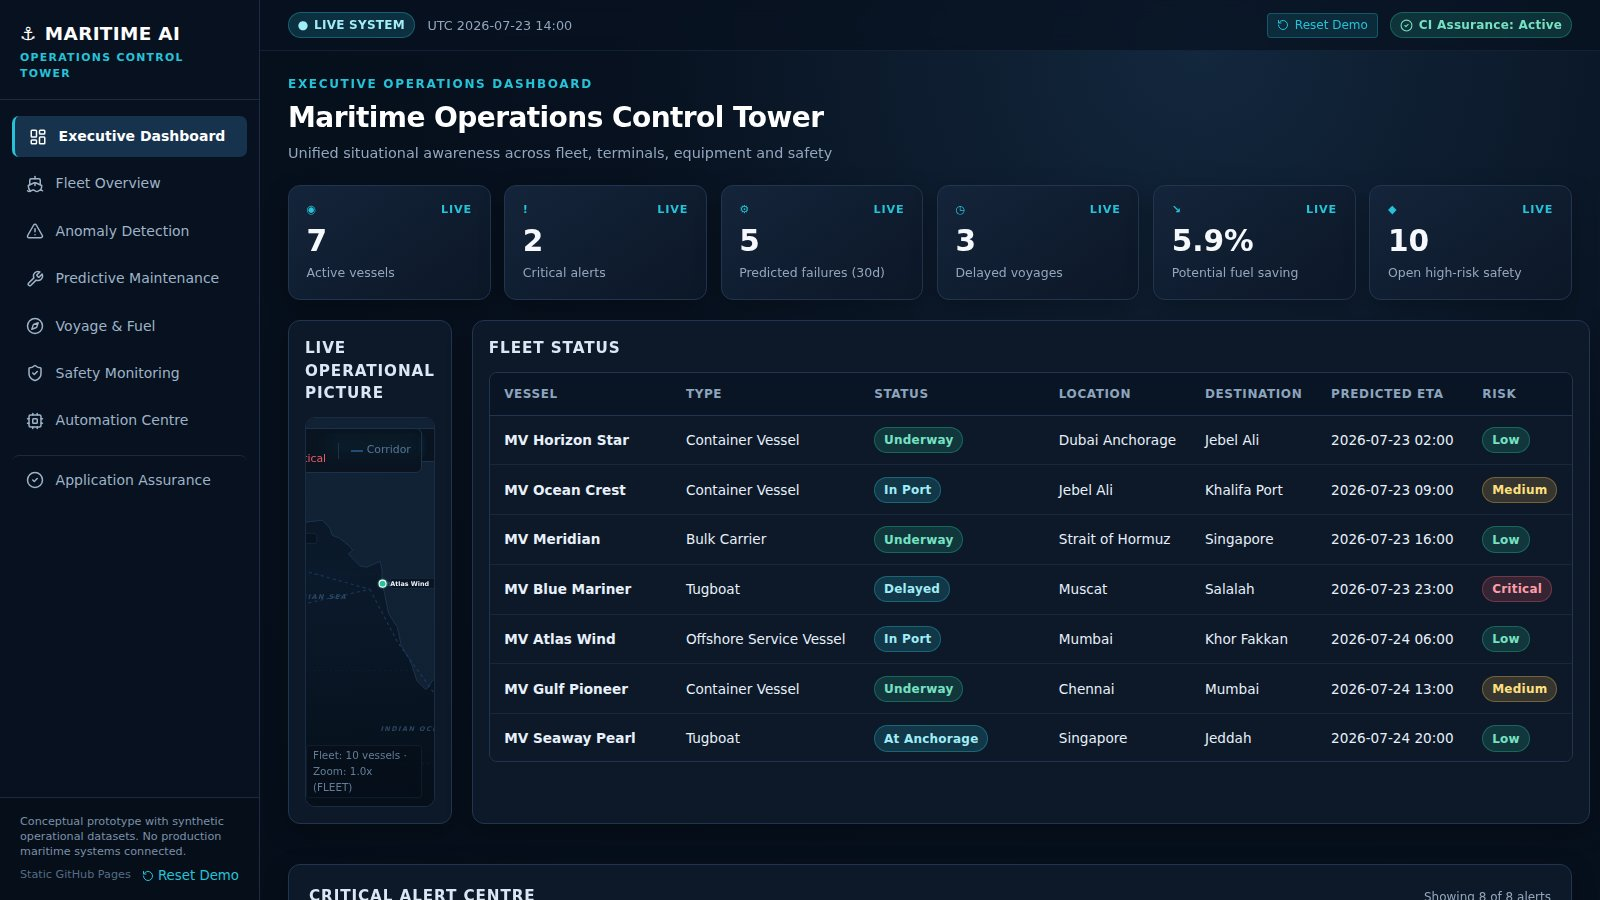
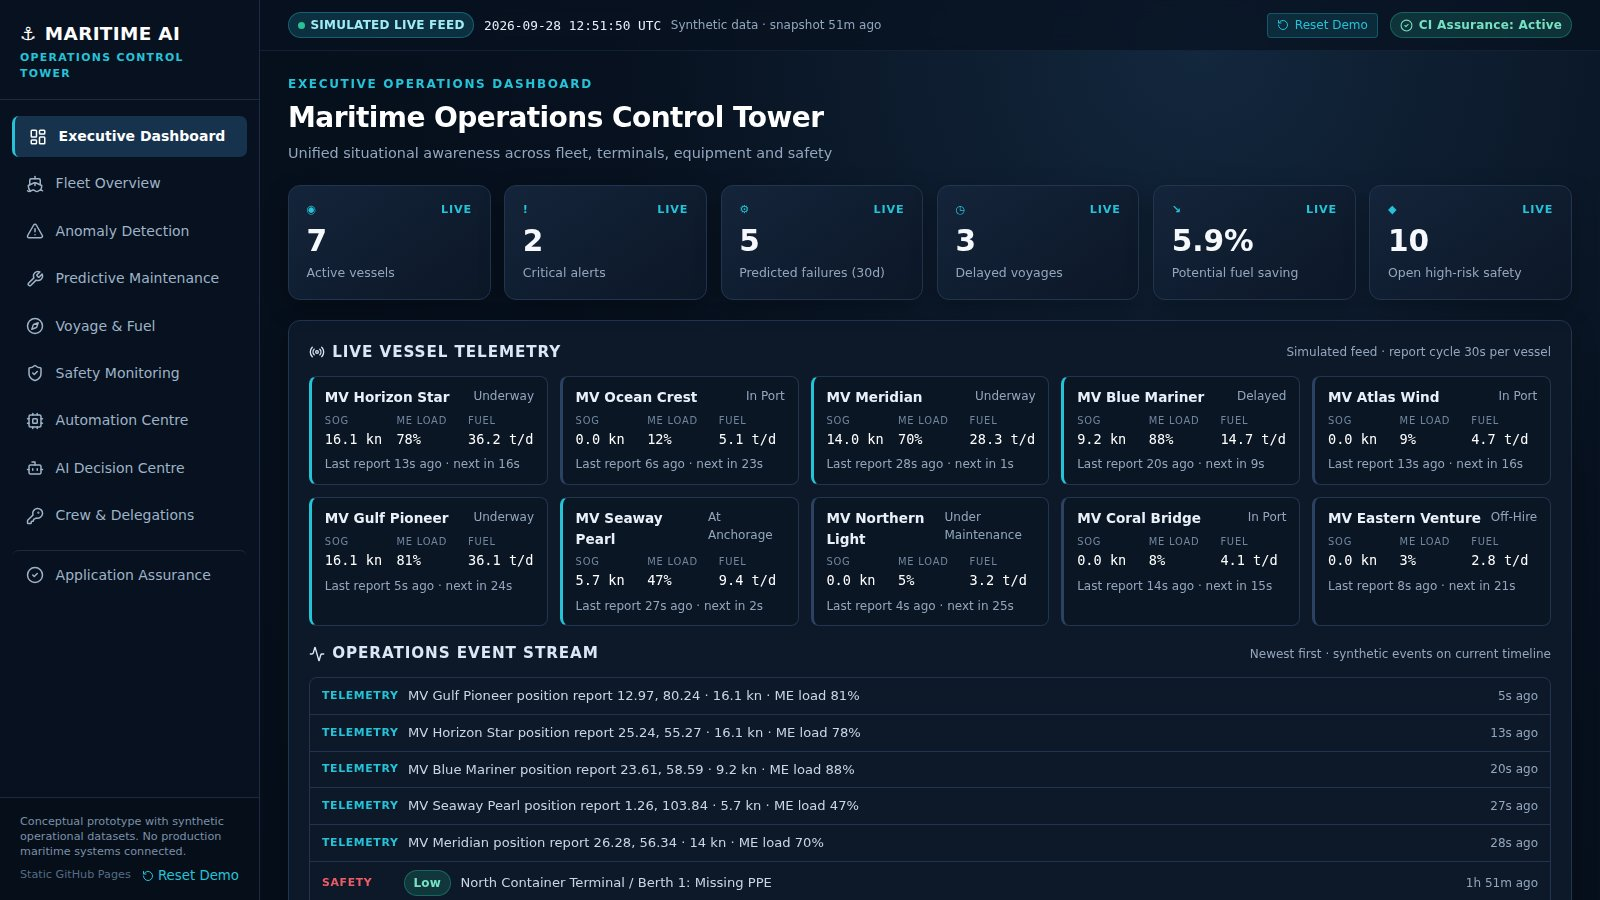
Refresh Maritime AI Control Tower snapshot and description to the current app
The app's main branch gained live telemetry, an AI Decision Centre and crew
and delegation management today; retake the dashboard snapshot from the
current main (static mode, as deployed) and update the card and CV text.

Claude-Session: https://claude.ai/code/session_011AN1edZykt6mXFmske7mgj

diff --git a/index.html b/index.html
@@ -845,7 +845,7 @@
           <div class="flex flex-1 flex-col p-6">
             <p class="text-[10px] font-bold uppercase tracking-[0.14em] text-slate-500">Maritime · AI · Operations</p>
             <h3 class="mt-2 text-base font-bold tracking-tight text-slate-900 dark:text-white">Maritime AI Control Tower</h3>
-            <p class="mt-2 flex-1 text-[14px] leading-relaxed">AI-assisted maritime operations concept covering fleet overview, anomaly detection, predictive maintenance, voyage and fuel optimisation, safety monitoring and human-in-the-loop automation with approval gates. Built with React and TypeScript on synthetic data, with automated QA and security checks.</p>
+            <p class="mt-2 flex-1 text-[14px] leading-relaxed">AI-assisted maritime operations concept with a simulated live vessel telemetry feed, anomaly detection, predictive maintenance, voyage and fuel optimisation, safety monitoring, an AI Decision Centre, crew and delegation management, and human-in-the-loop automation with approval gates. Built with React and TypeScript on synthetic data, with automated QA and security checks.</p>
             <div class="mt-4 flex flex-wrap gap-1.5">
               <span class="rounded-full border border-slate-200 bg-slate-100 px-2.5 py-1 text-[11px] font-medium text-slate-700 dark:border-white/10 dark:bg-white/[0.05] dark:text-slate-400">Maritime</span>
               <span class="rounded-full border border-slate-200 bg-slate-100 px-2.5 py-1 text-[11px] font-medium text-slate-700 dark:border-white/10 dark:bg-white/[0.05] dark:text-slate-400">AI</span>

diff --git a/tools/make-cv-pdf.py b/tools/make-cv-pdf.py
@@ -174,8 +174,8 @@ PROTOTYPES = (
 PROTOTYPE_ITEMS = [
     ('<a href="https://mdxdxbhub2026.github.io/maritime-operations-ai/#/dashboard" color="#B45309">'
      "Maritime Operations AI Control Tower</a>",
-     "Live web app (React, TypeScript) — fleet overview, anomaly detection, predictive maintenance, "
-     "voyage and fuel optimisation, safety monitoring and human-in-the-loop automation with approval gates."),
+     "Live web app (React, TypeScript) — simulated live telemetry, anomaly detection, predictive "
+     "maintenance, voyage optimisation, safety monitoring and an AI Decision Centre with human approval gates."),
     ('<a href="https://mdxdxbhub2026.github.io/Maritime-Haulage-Intelligence/" color="#B45309">'
      "Maritime Haulage Intelligence</a>",
      "Live web app — the 2015 UASC haulage contract capability rebuilt with a deterministic rule engine, "
